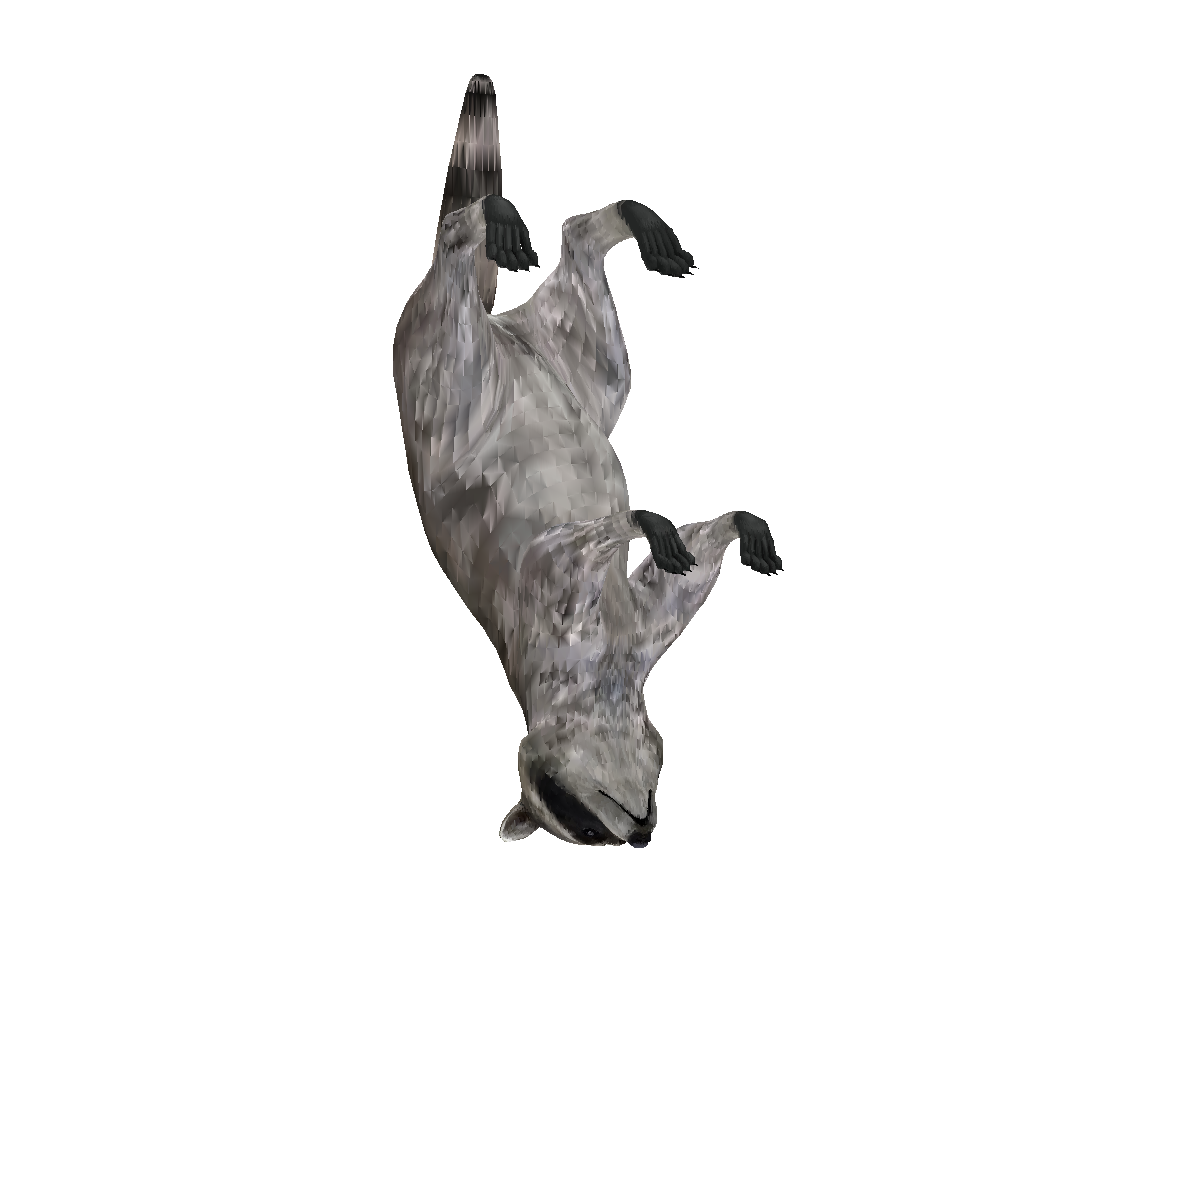
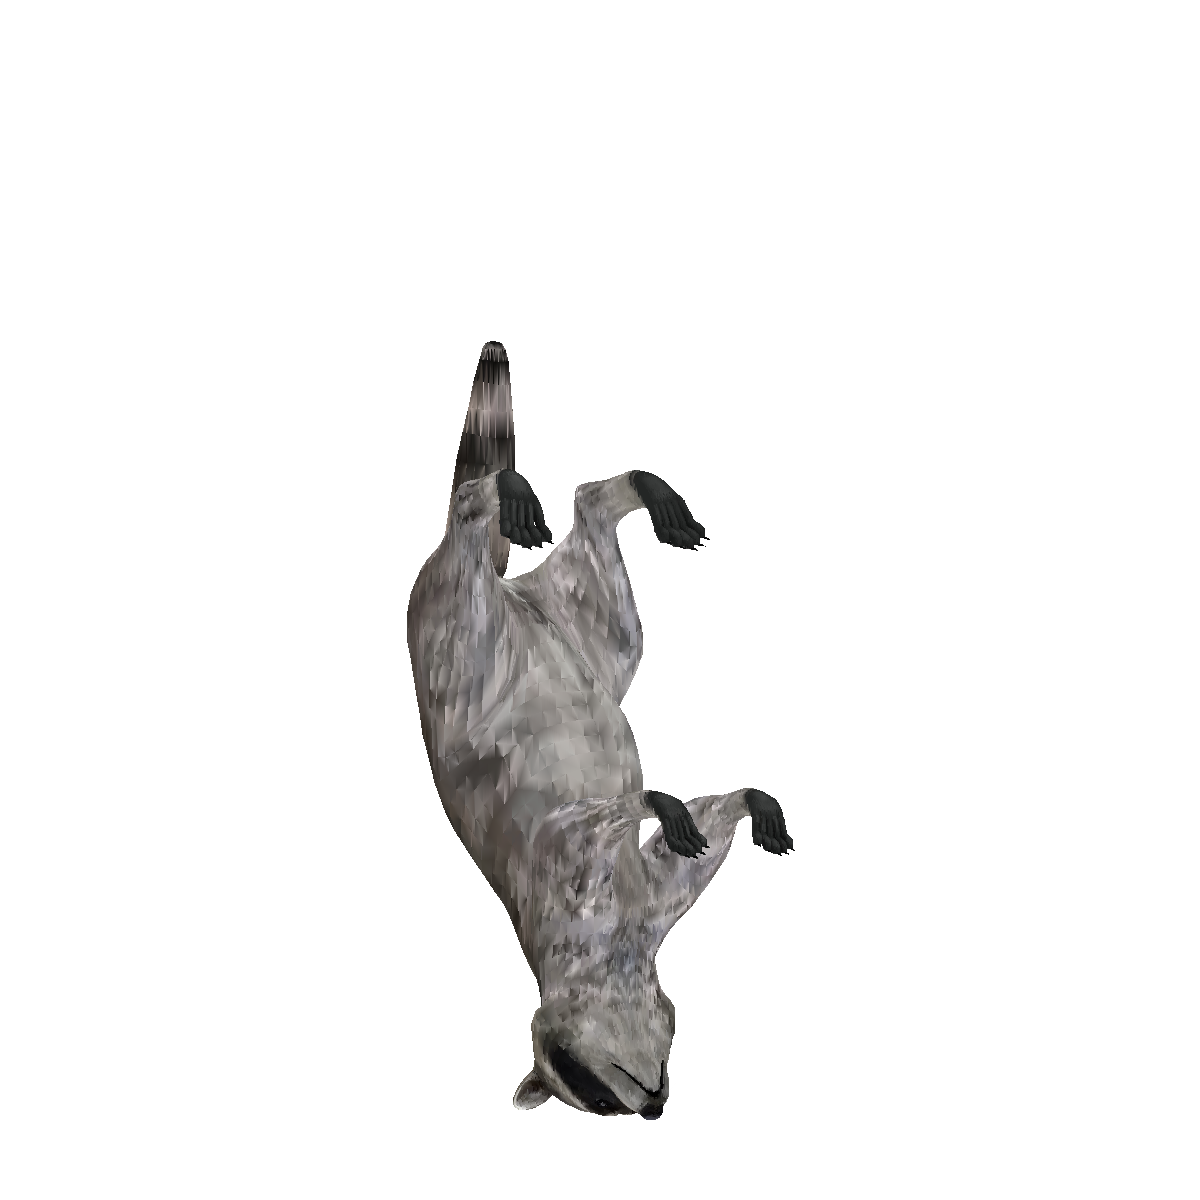
Finished transformations

Changed region(s): [[0.3083, 0.0617, 0.6783, 0.9558]]

diff --git a/src/demo.py b/src/demo.py
@@ -9,7 +9,6 @@ import inc.Helpers.display as dsp
 C, F, V, O, H, W, M, N, w, g, ck, cu, cv, t1, t2, theta = rd.load_data_mat(filename='../data/hw2.mat')
 img1 = render_object(V, F, C, M, N, H, W, w, cv, ck, cu)
 dsp.display_npy(img1, save=True, filename='1')
-# Transformation matrix
 transformation = TransformationMatrix()
 
 # Tranformation 1
@@ -19,12 +18,14 @@ img2 = render_object(V, F, C, M, N, H, W, w, cv, ck, cu)
 dsp.display_npy(img2, save=True, filename='2')
 
 # Transformation 2
+transformation = TransformationMatrix()
 transformation.rotate(angle_radians=theta, rotation_axis=g)
 V = affine_transform(cp=V, T=transformation.T)
 img3 = render_object(V, F, C, M, N, H, W, w, cv, ck, cu)
 dsp.display_npy(img3, save=True, filename='3')
 
 # Tranformation 3
+transformation = TransformationMatrix()
 transformation.translate(t=t2)
 V = affine_transform(cp=V, T=transformation.T)
 img4 = render_object(V, F, C, M, N, H, W, w, cv, ck, cu)
